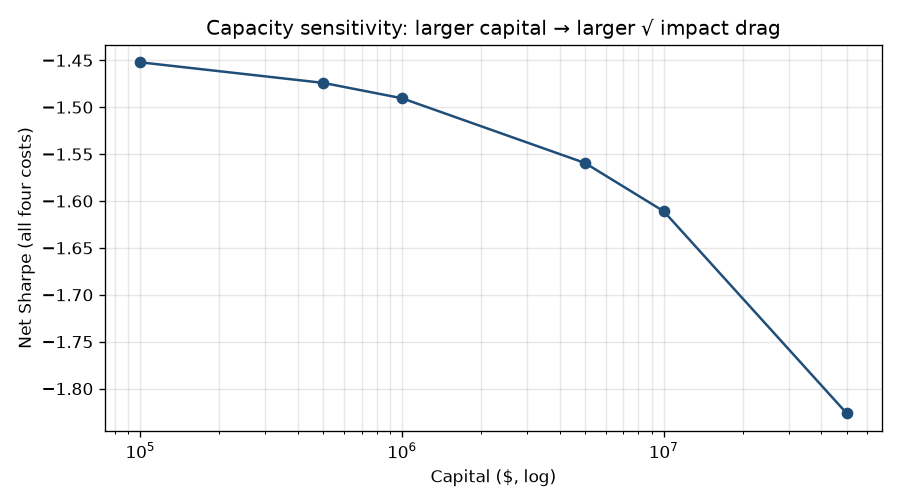
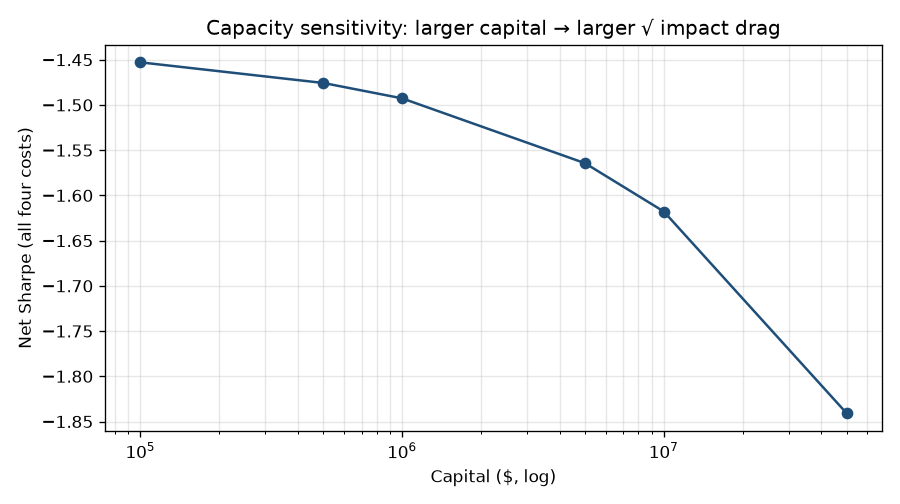
P3 pass follow-ups: lagged impact vol; half-life/DSR in Must-teach
- apply_costs / P2 path impact: rolling(20).std().shift(1) with expanding warm-up (no full-sample σ)
- CURRICULUM_V2 Must-teach: AR(1)/OU half-life; DSR on chosen OOS series; enrich P4 must-teach
- Re-ran affected P2/P3 labs and refreshed bilingual outs

diff --git a/examples/p2/03_costs_in_backtest.py b/examples/p2/03_costs_in_backtest.py
@@ -34,7 +34,10 @@ HALF_SPREAD_BPS = 5.0         # half bid-ask (implicit microstructure)
 SLIPPAGE_BPS = 3.0            # extra slippage beyond half-spread
 IMPACT_K = 0.10               # square-root prefactor (dimensionless)
 ADV_SHARES = 1_000_000.0      # average daily volume (shares)
-SIGMA_DAILY = float(r.std(ddof=1))  # daily vol from panel
+VOL_LB = 20
+# Single-trade demo uses STATED prior sigma from first 100 bars only (no future).
+SIGMA_PRIOR = float(r.iloc[:100].std(ddof=1))
+SIGMA_DAILY = SIGMA_PRIOR  # print alias; path impact uses lagged rolling
 PRICE = float(px.iloc[-1])
 CAPITAL_BASE = 1_000_000.0    # $ for unit demo
 PARTICIPATION_DEFAULT = 0.05  # Q/ADV for single-trade demo
@@ -45,7 +48,8 @@ print("commission_bps", COMMISSION_BPS)
 print("half_spread_bps", HALF_SPREAD_BPS)
 print("slippage_bps", SLIPPAGE_BPS)
 print("impact_model: k*sigma*sqrt(Q/ADV) with k=", IMPACT_K)
-print("ADV_shares", ADV_SHARES, "sigma_daily", round(SIGMA_DAILY, 6), "price", round(PRICE, 4))
+print("ADV_shares", ADV_SHARES, "sigma_prior_first100", round(SIGMA_PRIOR, 6), "price", round(PRICE, 4))
+print("impact_vol_rule: rolling", VOL_LB, "std shifted by 1; warm-up=expanding std shifted by 1")
 print("cite: Almgren et al. 2005 Direct Estimation of Equity Market Impact (√ candidate; empirical β≈0.6)")
 
 
@@ -82,12 +86,20 @@ c_slip = turnover * bps_to_ret(SLIPPAGE_BPS)
 
 
 # 4) Market impact via square-root: each rebalance trades Q shares ≈ turnover * (capital/price)
+def lagged_sigma(ret: pd.Series, lb: int = VOL_LB) -> pd.Series:
+    """sigma[t] from returns strictly before t (rolling lb; warm-up expanding)."""
+    roll = ret.rolling(lb, min_periods=lb).std(ddof=1)
+    expand = ret.expanding(min_periods=2).std(ddof=1)
+    return roll.fillna(expand).shift(1).fillna(0.0)
+
+
 def impact_cost_series(capital: float) -> pd.Series:
     # shares traded on a day ≈ turnover * (capital / price); Q/ADV = shares/ADV
     shares = turnover * (capital / PRICE)
     q_over_adv = shares / ADV_SHARES
-    # impact in return units (fraction of price): k * σ * sqrt(Q/ADV)
-    impact_ret = IMPACT_K * SIGMA_DAILY * np.sqrt(q_over_adv.clip(lower=0))
+    # impact: k * σ_{t-1} * sqrt(Q/ADV) — no full-sample look-ahead
+    sigma = lagged_sigma(r)
+    impact_ret = IMPACT_K * sigma * np.sqrt(q_over_adv.clip(lower=0))
     return impact_ret
 
 
@@ -96,14 +108,14 @@ net = gross - c_comm - c_spread - c_slip - c_impact
 
 print("\n=== four-part numeric example (single trade Q/ADV=%.2f) ===" % PARTICIPATION_DEFAULT)
 q = PARTICIPATION_DEFAULT
-imp_one = IMPACT_K * SIGMA_DAILY * np.sqrt(q)
+imp_one = IMPACT_K * SIGMA_PRIOR * np.sqrt(q)
 print("commission_one_way_ret", round(bps_to_ret(COMMISSION_BPS), 6), f"({COMMISSION_BPS} bps)")
 print("half_spread_one_way_ret", round(bps_to_ret(HALF_SPREAD_BPS), 6), f"({HALF_SPREAD_BPS} bps)")
 print("slippage_one_way_ret", round(bps_to_ret(SLIPPAGE_BPS), 6), f"({SLIPPAGE_BPS} bps)")
 print(
     "impact_one_trade_ret",
     round(imp_one, 6),
-    f"= {IMPACT_K}*{round(SIGMA_DAILY,4)}*sqrt({q})",
+    f"= {IMPACT_K}*{round(SIGMA_PRIOR,4)}*sqrt({q}) (stated prior)",
 )
 print(
     "total_one_way_demo_bps",

diff --git a/examples/p3/_common.py b/examples/p3/_common.py
@@ -60,7 +60,12 @@ def apply_costs(
     c_stack = turnover * bps
     shares = CAPITAL / price.reindex(ret.index).ffill().bfill().clip(lower=1e-6)
     participation = (n_legs * turnover * shares) / ADV_SHARES
-    sigma = float(ret.std(ddof=1))
+    # Look-ahead-free vol: rolling std shift(1). Warm-up: expanding std of past only, also shifted.
+    # Stated: VOL_LB=20; sigma[t] uses returns strictly before t.
+    VOL_LB = 20
+    roll = ret.rolling(VOL_LB, min_periods=VOL_LB).std(ddof=1)
+    expand = ret.expanding(min_periods=2).std(ddof=1)
+    sigma = roll.fillna(expand).shift(1).reindex(ret.index).fillna(0.0)
     c_impact = IMPACT_K * sigma * np.sqrt(participation.clip(lower=0.0))
     net = gross - c_stack - c_impact
     stats = {

diff --git a/docs/CURRICULUM_V2.md b/docs/CURRICULUM_V2.md
@@ -436,6 +436,7 @@
 - **Must-teach:**
   - 强趋势中回归易反复止损。
   - 阈值再估计。
+  - AR(1)/OU 半衰期选回看与持有；z[t] 仅从 t+1 改仓。
 - **Exercises:**
   - z<-2/z>2。
   - 有无止损A/B。
@@ -477,8 +478,9 @@
   - 三策略并排报告。
   - 判定是否胜过基准。
 - **Must-teach:**
-  - 控制隐藏假设。
+  - 控制隐藏假设；统一成本模型（配对含冲击）。
   - 简单是基准线。
+  - 显式试验数 N 上对所选策略算 DSR（须用与选赢家相同的 OOS 序列）。
 - **Exercises:**
   - 三策略报告。
   - 指定基准并判定。
@@ -503,9 +505,11 @@
   - 分层多空。
   - 真/假因子对照。
 - **Must-teach:**
-  - IC=截面排序一致性。
-  - 因子海市蜃楼与虚假发现。
-  - 从经济假设出发。
+  - IC=截面排序一致性；RankIC / ICIR / IC 衰减。
+  - 因子构建：去极值、z 标准化、行业与市值中性化。
+  - 分层多空 + 换手成本；Fama–MacBeth（及 FF3/FF5 文献）。
+  - 因子海市蜃楼与多重检验（Harvey–Liu–Zhu t>3）。
+  - 从经济假设出发；Alphalens/Qlib 风格工作流。
 - **Exercises:**
   - ic(factor,fwd)。
   - 分层净值。
@@ -529,7 +533,8 @@
   - 单因子vs等权多因子。
 - **Must-teach:**
   - 合成不自动提高可交易性。
-  - 换手与成本再决定净收益。
+  - 换手与成本再决定净收益（共享成本模型）。
+  - 中性化前后对照；拥挤与衰减。
 - **Exercises:**
   - 中性化前后IC。
   - 多因子等权对照。
